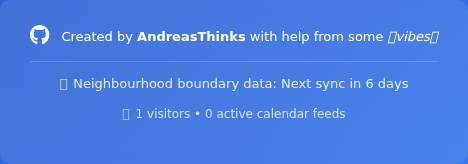
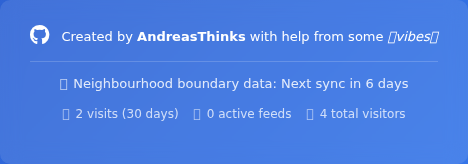
feat: Add activity tracking to the front page
This commit introduces activity tracking to the application, displaying the total number of visitors, the count of active ICS feeds, and the number of visitors in the last 30 days on the front page.

Key changes include:
- **Database:**
  - Added a new `app_metrics` table to `database/duckdb_client.py` to store application-level statistics.
  - Added a new `daily_visits` table to track visitor counts per day.
  - Implemented methods to increment metrics, log daily visits, and get the total visits for the last 30 days.
- **Backend:**
  - Modified the root (`/`) endpoint in `main.py` to increment a `visitor_count` metric and log a daily visit on each page load.
  - Enhanced the `/api/stats` endpoint to expose the `visitor_count`, the number of active calendar feeds (from `calendar_cache`), and the `visits_last_30_days`.
- **Frontend:**
  - Updated `static/index.html` to include a new section in the footer for displaying the stats.
  - Added JavaScript to fetch data from the `/api/stats` endpoint and dynamically update the footer.

Changed region(s): [[0.1197, 0.6402, 0.8675, 0.7317]]

diff --git a/static/index.html b/static/index.html
@@ -489,6 +489,10 @@
             font-size: 12px;
             opacity: 0.75;
             margin-top: 10px;
+            display: flex;
+            justify-content: center;
+            gap: 15px;
+            flex-wrap: wrap;
         }
         
         .sync-icon, .stats-icon {
@@ -998,15 +1002,29 @@
                 const data = await response.json();
 
                 const statsEl = document.getElementById('appStats');
+                statsEl.innerHTML = ''; // Clear previous stats
 
-                if (data.visitor_count !== undefined && data.active_feeds !== undefined) {
-                    statsEl.innerHTML = `<span class="stats-icon">📊</span>${data.visitor_count.toLocaleString()} visitors • ${data.active_feeds.toLocaleString()} active calendar feeds`;
-                } else {
-                    statsEl.textContent = '';
+                if (data.visits_last_30_days !== undefined) {
+                    const monthlyVisitsEl = document.createElement('span');
+                    monthlyVisitsEl.innerHTML = `<span class="stats-icon">📈</span>${data.visits_last_30_days.toLocaleString()} visits (30 days)`;
+                    statsEl.appendChild(monthlyVisitsEl);
                 }
+
+                if (data.active_feeds !== undefined) {
+                    const activeFeedsEl = document.createElement('span');
+                    activeFeedsEl.innerHTML = `<span class="stats-icon">📡</span>${data.active_feeds.toLocaleString()} active feeds`;
+                    statsEl.appendChild(activeFeedsEl);
+                }
+
+                if (data.visitor_count !== undefined) {
+                    const totalVisitsEl = document.createElement('span');
+                    totalVisitsEl.innerHTML = `<span class="stats-icon">👥</span>${data.visitor_count.toLocaleString()} total visitors`;
+                    statsEl.appendChild(totalVisitsEl);
+                }
+
             } catch (err) {
                 console.error('Failed to fetch app stats:', err);
-                document.getElementById('appStats').textContent = '';
+                document.getElementById('appStats').textContent = 'Stats unavailable';
             }
         }
 

diff --git a/database/duckdb_client.py b/database/duckdb_client.py
@@ -118,6 +118,14 @@ class DuckDBClient:
             );
         """)
 
+        # Create daily visits table for trend analysis
+        self.conn.execute("""
+            CREATE TABLE IF NOT EXISTS daily_visits (
+                visit_date DATE PRIMARY KEY,
+                visit_count BIGINT
+            );
+        """)
+
         logger.info("Database schema initialized")
     
     def insert_neighbourhood(
@@ -482,12 +490,12 @@ class DuckDBClient:
         If the metric doesn't exist, it's created with the increment value.
         """
         try:
-            self.conn.execute(f"""
+            self.conn.execute("""
                 INSERT INTO app_metrics (metric_name, metric_value)
-                VALUES ('{metric_name}', {increment_by})
+                VALUES (?, ?)
                 ON CONFLICT (metric_name)
-                DO UPDATE SET metric_value = app_metrics.metric_value + {increment_by};
-            """)
+                DO UPDATE SET metric_value = app_metrics.metric_value + excluded.metric_value;
+            """, [metric_name, increment_by])
             logger.debug(f"Incremented metric '{metric_name}' by {increment_by}")
         except Exception as e:
             logger.error(f"Error incrementing metric '{metric_name}': {e}")
@@ -507,3 +515,39 @@ class DuckDBClient:
         except Exception as e:
             logger.error(f"Error getting metric '{metric_name}': {e}")
             return default_value
+
+    def log_daily_visit(self):
+        """
+        Logs a visit for the current date.
+        If a record for today exists, increments the count. Otherwise, creates a new record.
+        """
+        from datetime import date
+        try:
+            today = date.today()
+            self.conn.execute("""
+                INSERT INTO daily_visits (visit_date, visit_count)
+                VALUES (?, 1)
+                ON CONFLICT (visit_date)
+                DO UPDATE SET visit_count = daily_visits.visit_count + 1;
+            """, [today])
+            logger.debug(f"Logged visit for date: {today}")
+        except Exception as e:
+            logger.error(f"Error logging daily visit: {e}")
+
+    def get_visits_last_30_days(self) -> int:
+        """
+        Calculates the total number of visits over the last 30 days.
+        """
+        from datetime import date, timedelta
+        try:
+            thirty_days_ago = date.today() - timedelta(days=30)
+            result = self.conn.execute("""
+                SELECT SUM(visit_count)
+                FROM daily_visits
+                WHERE visit_date >= ?
+            """, [thirty_days_ago]).fetchone()
+
+            return result[0] if result and result[0] is not None else 0
+        except Exception as e:
+            logger.error(f"Error getting visits from last 30 days: {e}")
+            return 0

diff --git a/jules-scratch/verification/verify_stats_display.py b/jules-scratch/verification/verify_stats_display.py
@@ -11,9 +11,9 @@ def run_verification():
         # Wait for the stats element to be visible and contain the expected text
         stats_element = page.locator("#appStats")
         expect(stats_element).to_be_visible()
-        # The text will initially be "Loading stats..." and then update.
-        # We'll wait for it to contain "visitors", which indicates the API call was successful.
-        expect(stats_element).to_contain_text("visitors", timeout=10000) # Increased timeout for safety
+
+        # We'll wait for it to contain "visits (30 days)", which indicates the API call was successful.
+        expect(stats_element).to_contain_text("visits (30 days)", timeout=10000)
 
         # Take a screenshot of the footer to show the new stats
         footer_element = page.locator("footer")

diff --git a/main.py b/main.py
@@ -276,6 +276,7 @@ async def root():
     # Increment visitor count (non-critical, so fire-and-forget)
     try:
         db_client.increment_metric("visitor_count")
+        db_client.log_daily_visit()
     except Exception as e:
         logger.warning(f"Could not increment visitor count: {e}")
 
@@ -607,10 +608,12 @@ async def get_app_stats():
     """
     visitor_count = db_client.get_metric("visitor_count", default_value=0)
     active_feeds = len(calendar_cache)
+    visits_last_30_days = db_client.get_visits_last_30_days()
 
     return {
         "visitor_count": visitor_count,
-        "active_feeds": active_feeds
+        "active_feeds": active_feeds,
+        "visits_last_30_days": visits_last_30_days
     }
 
 
